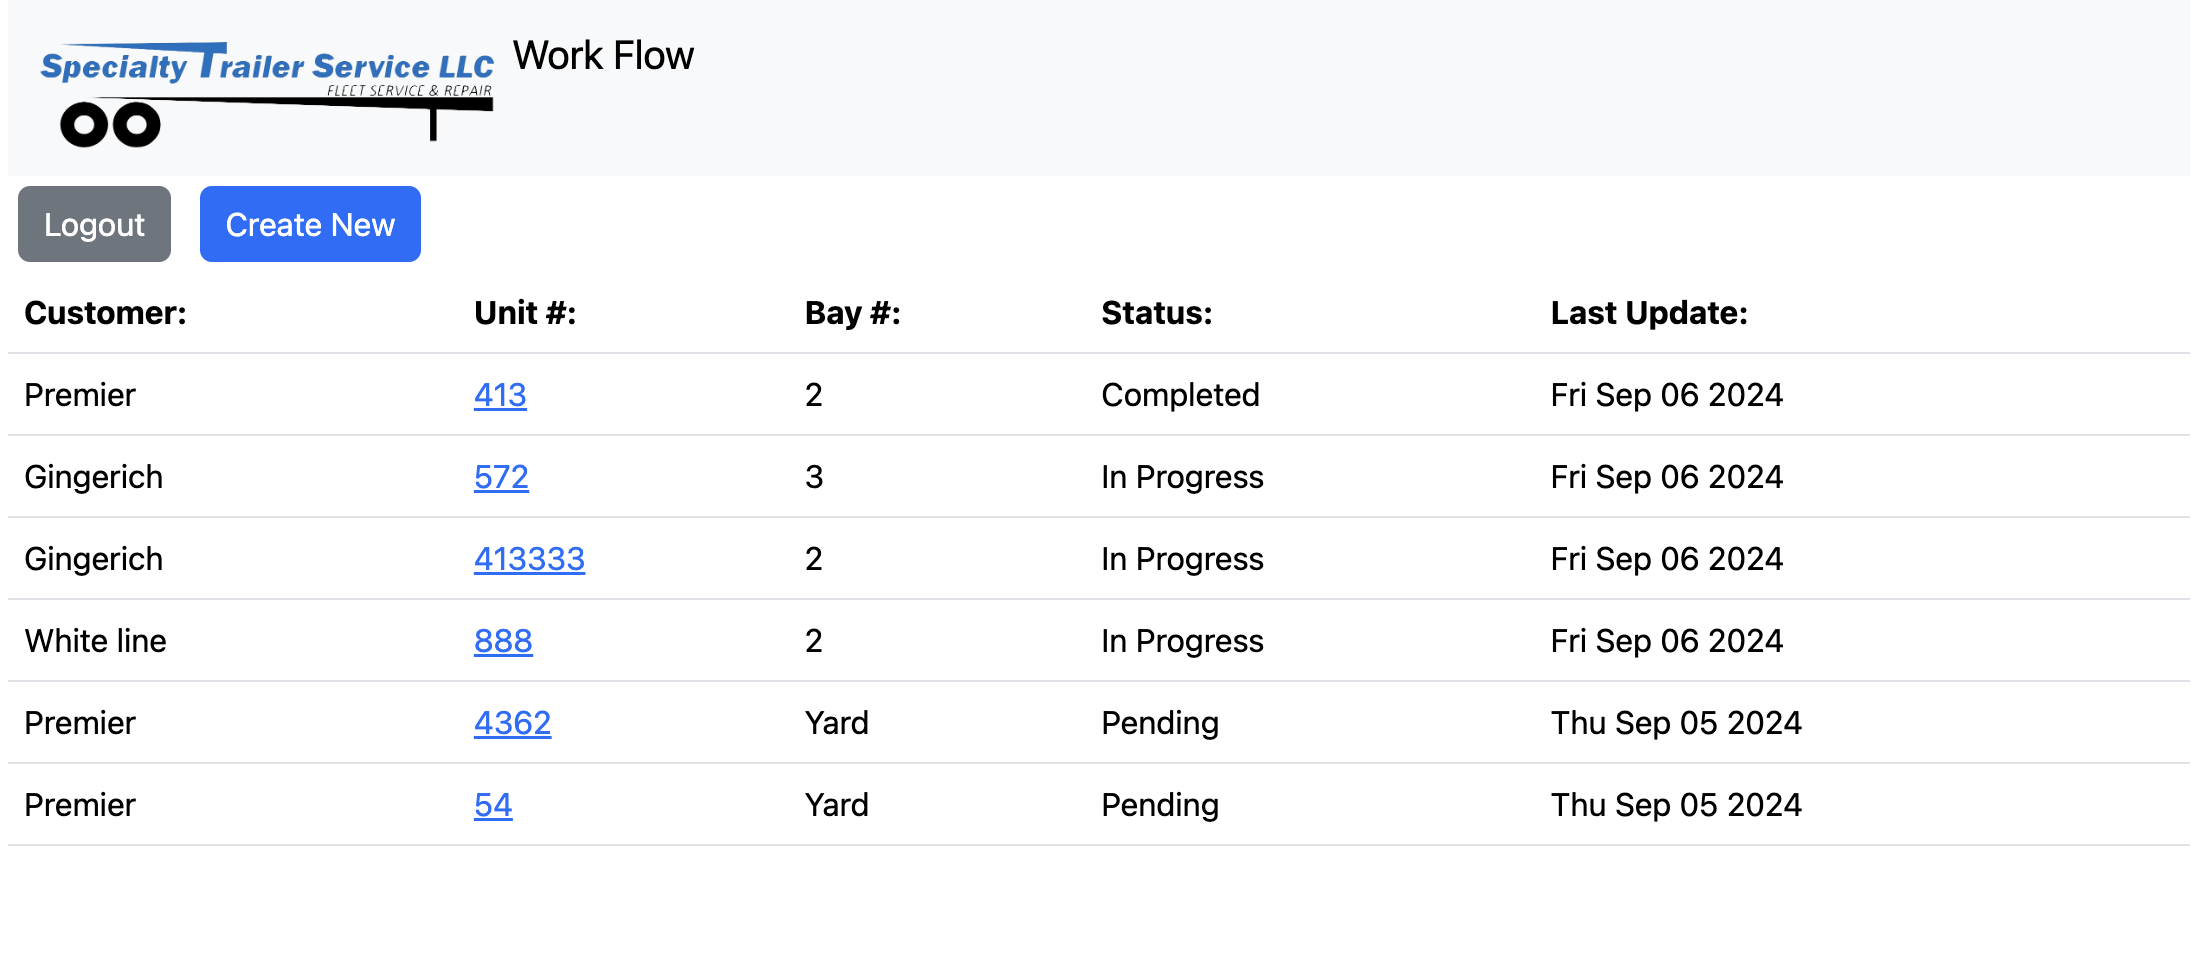
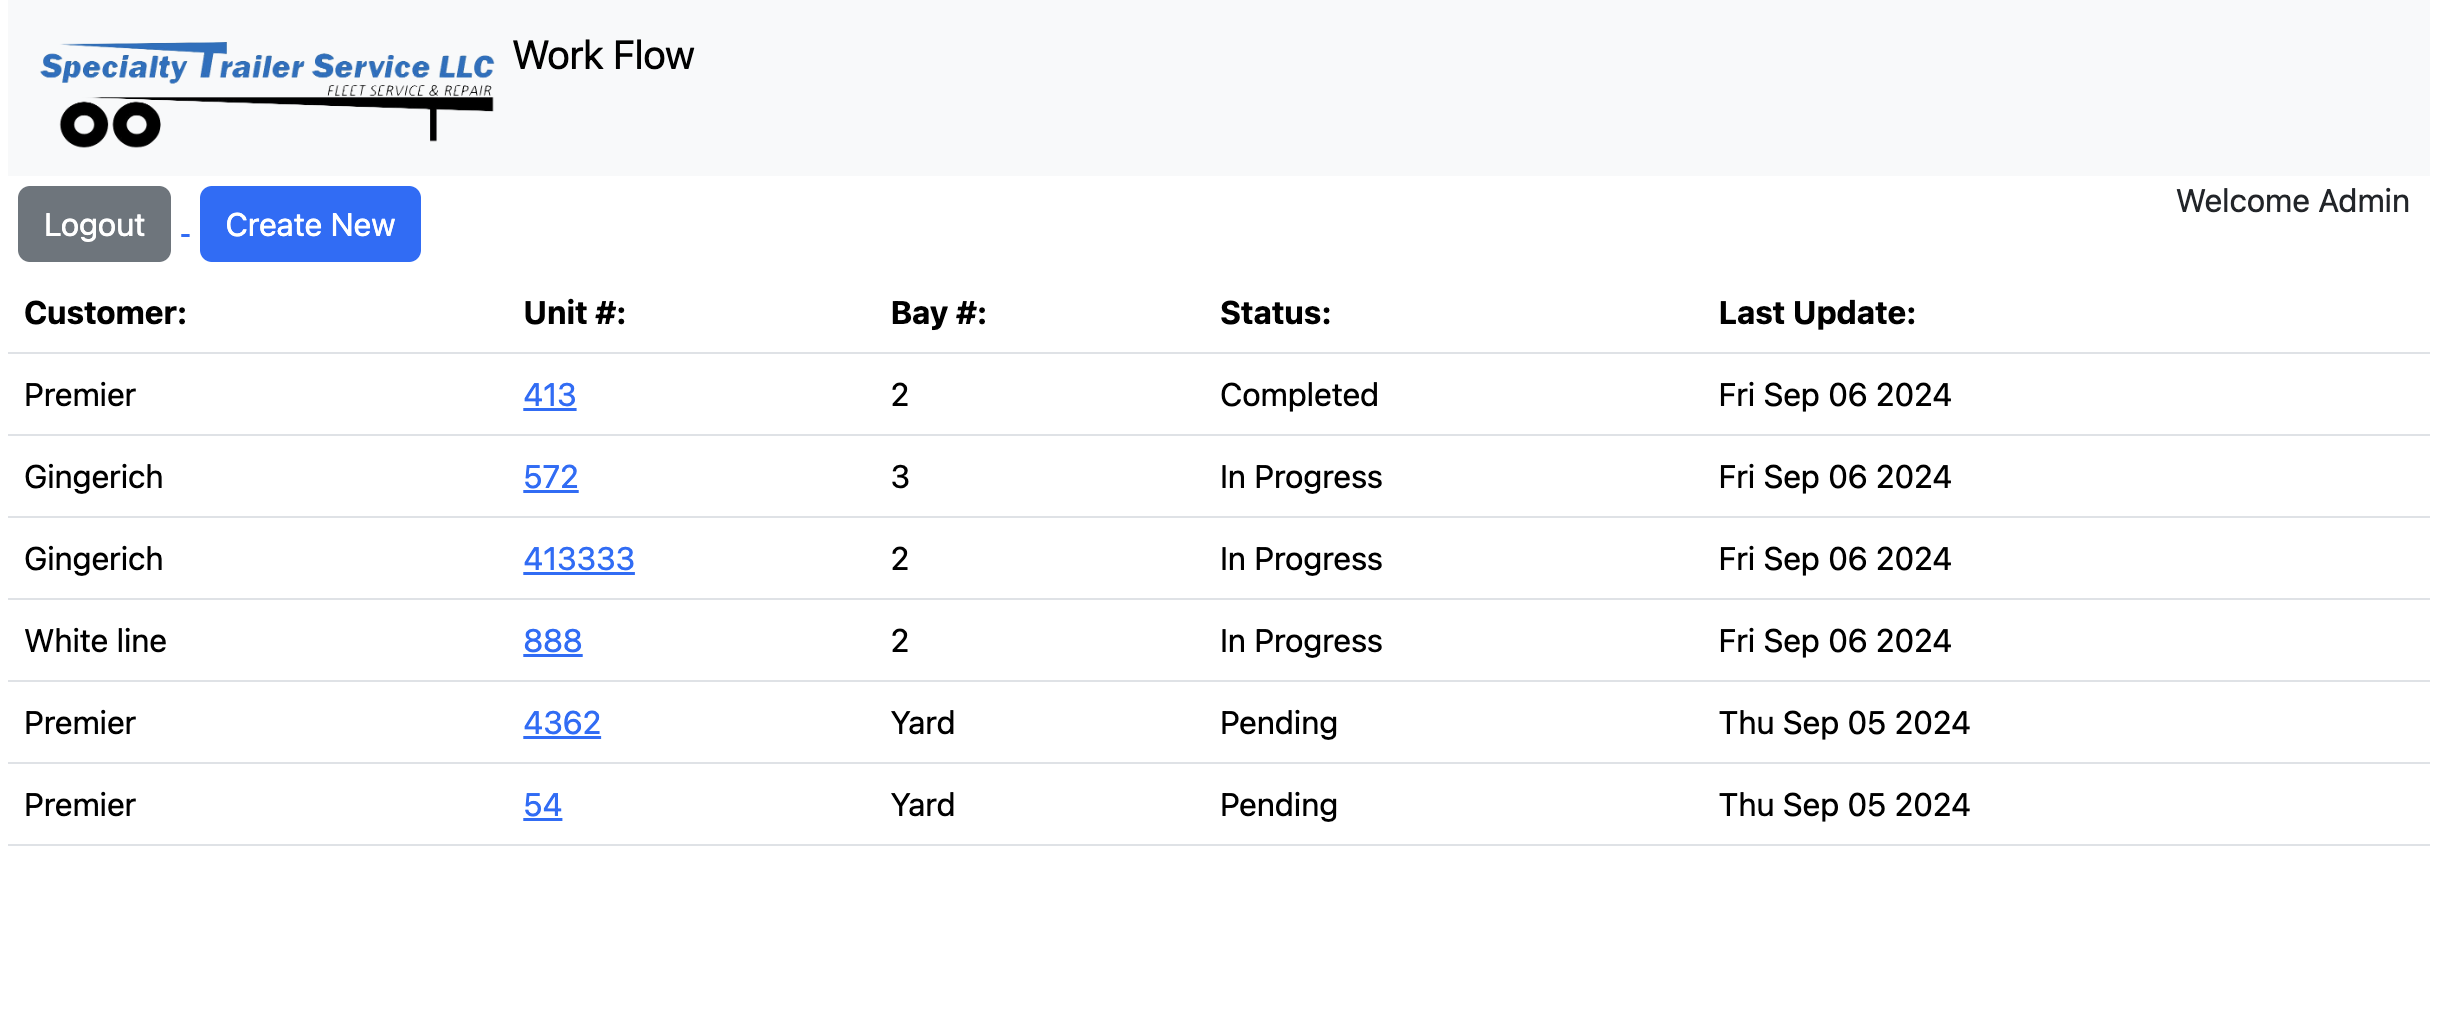
Added welcome msg

diff --git a/controllers/adminRoutes.js b/controllers/adminRoutes.js
@@ -14,12 +14,13 @@ router.use((req, res, next) => {
 
 
 router.get('/', async (req, res) => {
+    const user = req.session.alias
     if(!req.session.isAdmin){
         const assignedWOrders = await WorkOrder.find({techName: req.session.userId});
-        res.render('indexTech.ejs', { assignedWOrders });
+        res.render('indexTech.ejs', { assignedWOrders, user });
     }else{
         const wOrder = await WorkOrder.find({});
-        res.render('indexAdmin.ejs', { wOrder });
+        res.render('indexAdmin.ejs', { wOrder, user });
     }
 });
 

diff --git a/controllers/user.js b/controllers/user.js
@@ -45,6 +45,7 @@ router.post("/login", async (req, res) => {
                 req.session.username = req.body.username;
                 req.session.isAdmin = user.isAdmin
                 req.session.userId = user._id
+                req.session.alias = user.alias
                 res.redirect("/workflow");
             } else {
             //passwords DO NOT match, send this string

diff --git a/public/css/style.css b/public/css/style.css
@@ -25,3 +25,12 @@ body{
 .btn {
     margin: 5px;
 }
+
+.encloserOne{
+    display: flex;
+    justify-content: space-between;
+}
+
+.welcomeMsg{
+    margin-right: 10px;
+}
